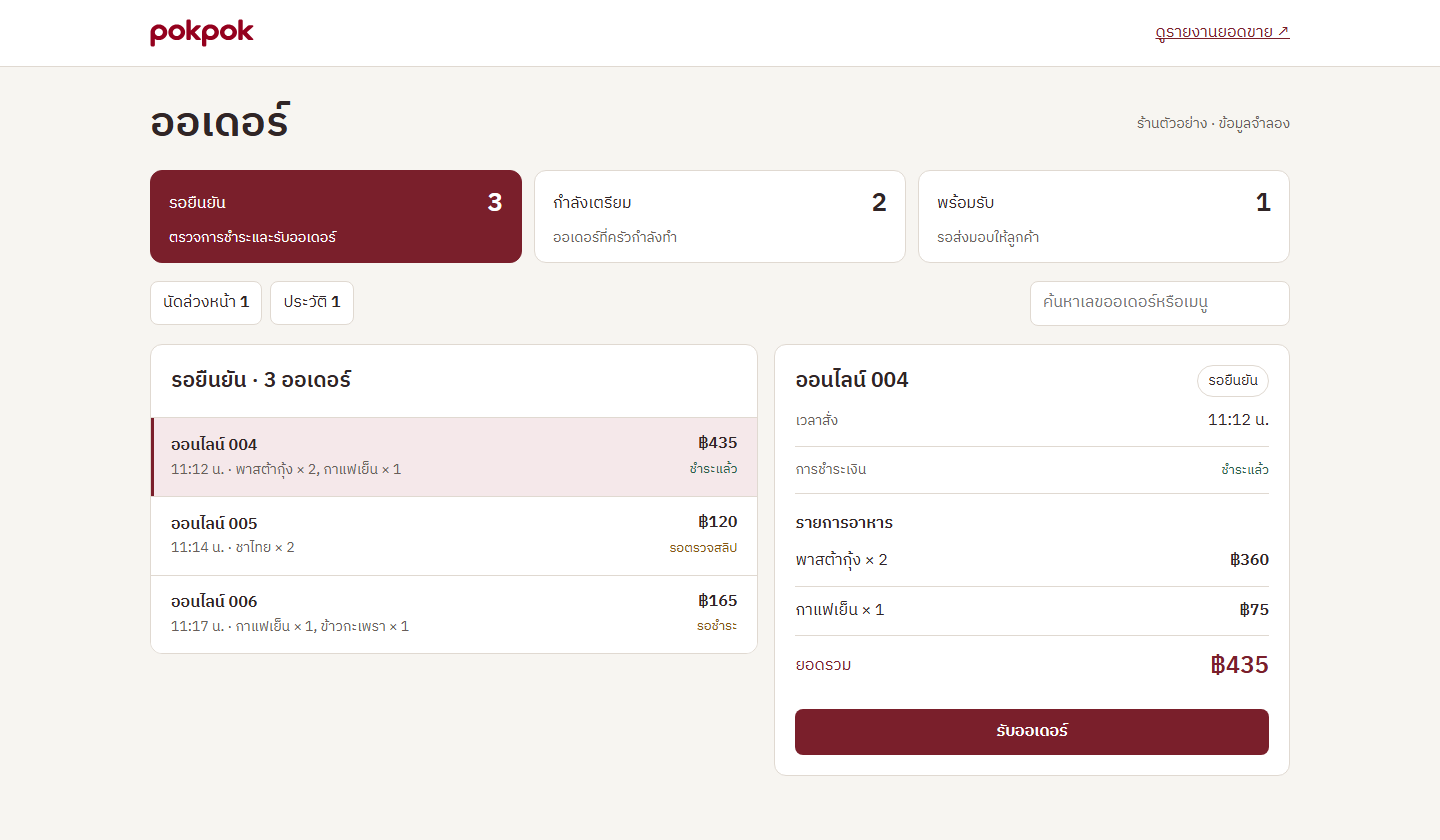
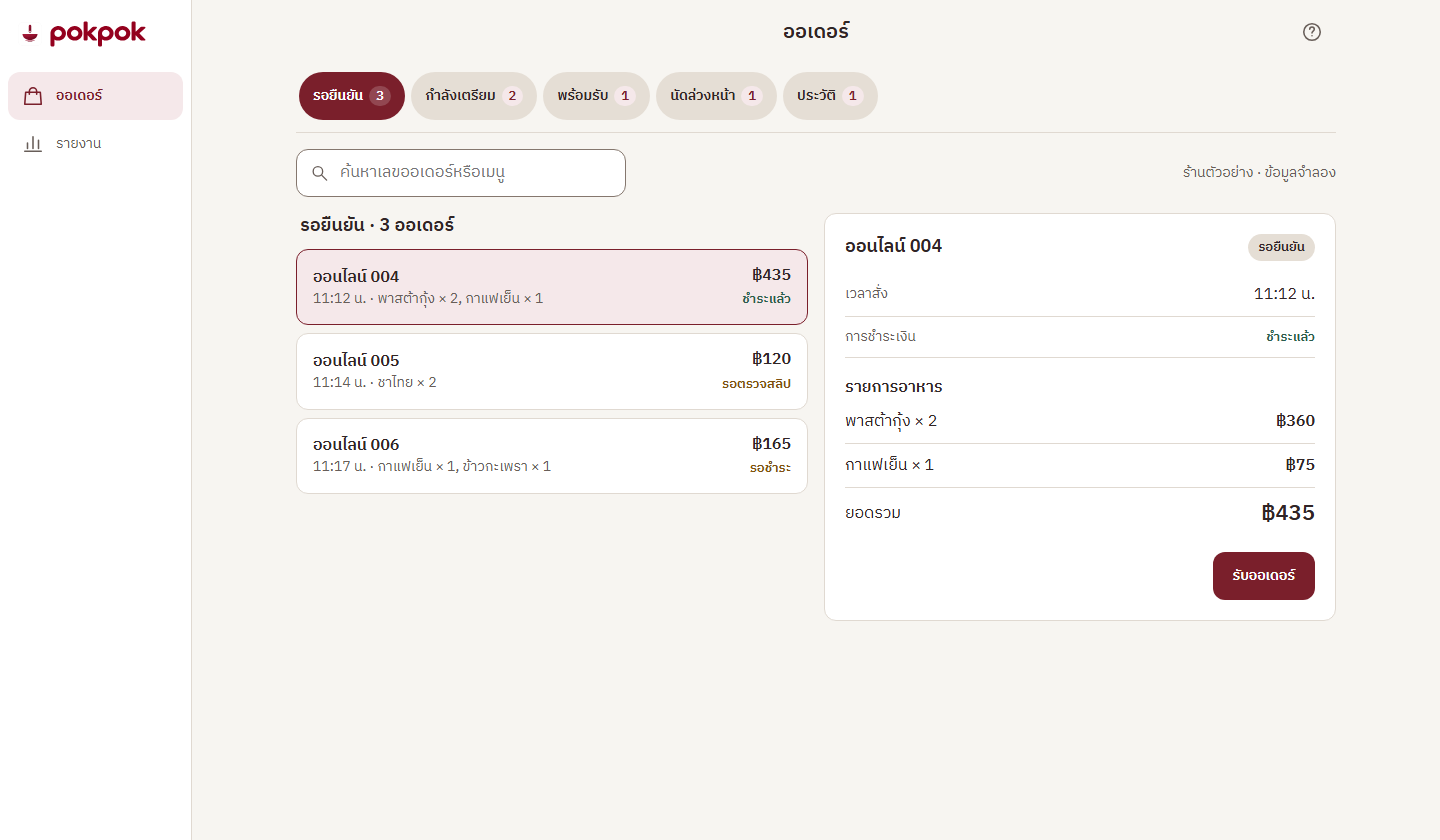
Align orders preview with Pokpok app navigation and theme

diff --git a/docs/previews/pokpok-orders.html b/docs/previews/pokpok-orders.html
@@ -7,43 +7,67 @@
 <style>
 @font-face{font-family:Plex;src:url('../../assets/fonts/IBMPlexSansThai-Regular.ttf')}
 @font-face{font-family:Plex;font-weight:600;src:url('../../assets/fonts/IBMPlexSansThai-SemiBold.ttf')}
-*{box-sizing:border-box}body{margin:0;background:var(--paper);color:var(--ink);font:16px/1.55 Plex,sans-serif;font-variant-numeric:tabular-nums}
-button,input{font:inherit}button,a{touch-action:manipulation}button{cursor:pointer;color:inherit}
+:root{--primary-text:white;--chip:#e5ded5;--border:#85776e;--paid:#295d4a;--pending:#80500e;--rail:192px}
+@media(prefers-color-scheme:dark){
+  :root{color-scheme:dark;--paper:#191716;--surface:#211e1d;--ink:#f0e9e4;--muted:#ccc1ba;--line:#514841;--border:#9b8d84;--wine:#f2adb7;--primary-text:#48101a;--rose:#50232b;--chip:#3b3533;--paid:#9bd8bc;--pending:#f4ca89}
+  .wordmark{filter:brightness(0) invert(1)}
+}
+*{box-sizing:border-box}
+body{margin:0;background:var(--paper);color:var(--ink);font:16px/1.45 Plex,sans-serif;font-variant-numeric:tabular-nums}
+button,input{font:inherit;color:inherit}button{cursor:pointer}button,a{touch-action:manipulation}
 :focus-visible{outline:3px solid var(--wine);outline-offset:2px}
-header{background:var(--surface);border-bottom:1px solid var(--line)}.wrap{width:min(1140px,94%);margin:auto}
-.mast,.line,.tools,.detail-head,.total{display:flex;align-items:center;justify-content:space-between;gap:12px}
-.mast{min-height:66px}.mast img{width:104px}.mast a{color:var(--wine);padding:10px 0}
-h1,h2,h3,p{margin:0}h1{font-size:clamp(30px,4vw,42px)}h2{font-size:21px}h3{font-size:16px}
-main{padding:24px 0 44px}.line{margin-bottom:14px}small,.sub{color:var(--muted);font-size:14px}
-.queues{display:grid;grid-template-columns:repeat(3,1fr);gap:12px}.queue,.panel{border:1px solid var(--line);background:var(--surface);border-radius:var(--radius)}
-.queue{padding:13px 18px;text-align:start;display:grid;grid-template-columns:1fr auto;align-items:center;gap:3px 8px}.queue small{grid-column:1/-1}.queue strong{font-size:26px}
-.queue[aria-pressed=true],.action{background:var(--wine);color:white;border-color:var(--wine)}.queue[aria-pressed=true] small{color:white}
-.tools{flex-wrap:wrap;margin:18px 0}.views{display:flex;gap:8px;flex-wrap:wrap}.views button,.back{border:1px solid var(--line);background:white;border-radius:8px;padding:8px 12px;min-height:44px}.views button[aria-pressed=true]{background:var(--rose);border-color:var(--wine);color:var(--wine)}
-input{border:1px solid var(--line);border-radius:8px;padding:9px 12px;width:min(100%,260px);background:white;color:var(--ink)}
-.board{display:grid;grid-template-columns:minmax(0,1.18fr) minmax(0,1fr);gap:16px;align-items:start}.panel{overflow:hidden;min-width:0}.panel-head,.detail{padding:20px}.panel-head{border-bottom:1px solid var(--line)}
-.order{display:grid;width:100%;grid-template-columns:1fr auto;align-items:center;gap:5px 12px;border:0;border-bottom:1px solid var(--line);background:white;text-align:start;padding:14px 20px}.order:last-child{border-bottom:0}.order[aria-pressed=true]{background:var(--rose);box-shadow:inset 3px 0 var(--wine)}.order span:last-child{text-align:end}.order strong,.order small{display:block}
-.pay{font-size:13px}.paid{color:#295d4a}.unpaid{color:#865512}.badge{padding:4px 10px;border:1px solid var(--line);border-radius:18px;font-size:14px}
-.meta,.item,.total{padding:12px 0;border-bottom:1px solid var(--line)}.meta,.item{display:flex;align-items:baseline;justify-content:space-between;gap:12px}.items{margin-top:18px}.total{border:0;color:var(--wine)}.total strong{font-size:24px}.action{width:100%;border:0;border-radius:8px;min-height:46px;font-weight:600;margin-top:12px}
-.empty{padding:24px}.back{display:none}.sr{position:absolute;width:1px;height:1px;clip-path:inset(50%);overflow:hidden}
-@media(max-width:639px){main{padding-top:16px}.mast{min-height:54px}.queues{gap:5px}.queue{display:flex;flex-direction:column;align-items:start;gap:0;padding:9px;font-size:14px}.queue strong{font-size:23px}.queue small{display:none}.tools{gap:10px}.tools input{width:100%}.board{display:block}.detail{display:none}.order{padding:12px}.drill .detail{display:block}.drill .overview{display:none}.drill .back{display:inline-block;margin-bottom:12px}}
+h1,h2,h3,p{margin:0}h1{font-size:20px}h2{font-size:18px}h3{font-size:16px}
+small,.sub{color:var(--muted);font-size:14px}
+nav{position:fixed;inset:0 auto 0 0;width:var(--rail);background:var(--surface);border-right:1px solid var(--line);padding:8px;z-index:2}
+.brand{height:52px;display:flex;align-items:center;gap:6px;padding:0 8px;margin-bottom:12px}.mark{width:28px}.wordmark{width:96px}
+.dest{min-height:48px;display:flex;align-items:center;gap:12px;padding:8px 14px;border-radius:12px;text-decoration:none;color:var(--muted);font-size:14px}
+.dest[aria-current]{color:var(--wine);background:var(--rose);font-weight:600}
+.icon{width:22px;height:22px;fill:none;stroke:currentColor;stroke-linecap:round;stroke-linejoin:round;stroke-width:1.7;flex:none}
+main{margin-left:var(--rail);padding:0 20px 32px}
+.appbar,.workspace{max-width:1040px;margin:auto}.appbar{height:64px;display:grid;align-items:center;grid-template-columns:48px 1fr 48px;text-align:center}.appbar h1{grid-column:2}
+.help,.back{border:0;background:transparent;min-width:48px;height:48px;color:var(--muted);display:grid;place-items:center}.back{display:none}
+.queues{display:flex;gap:6px;overflow-x:auto;scrollbar-width:none;padding:8px 3px 12px;border-bottom:1px solid var(--line)}
+.queue{flex:none;min-height:48px;padding:8px 14px;border:0;border-radius:40px;background:var(--chip);display:flex;align-items:center;gap:6px;font-size:14px;font-weight:600}
+.count{background:var(--rose);color:var(--wine);border-radius:20px;padding:1px 7px;font-size:13px}
+.queue[aria-pressed=true],.action{background:var(--wine);color:var(--primary-text)}
+.queue[aria-pressed=true] .count{background:color-mix(in srgb,currentColor 18%,transparent);color:inherit}
+.tools,.panel-head,.detail-head,.meta,.item,.total{display:flex;justify-content:space-between;align-items:center;gap:12px}
+.tools{margin:16px 0}.searchbox{position:relative;display:flex;align-items:center;width:min(100%,330px)}.searchbox .icon{position:absolute;left:14px;width:19px;color:var(--muted)}
+input{width:100%;min-height:48px;background:var(--surface);border:1px solid var(--border);border-radius:var(--radius);padding:9px 12px 9px 43px}
+.board{display:grid;grid-template-columns:minmax(0,1fr) minmax(0,1fr);align-items:start;gap:16px}
+.panel-head{padding:0 4px 10px}.order,.detail,dialog{background:var(--surface);border:1px solid var(--line);border-radius:var(--radius);color:var(--ink)}
+.order{width:100%;display:grid;grid-template-columns:minmax(0,1fr) auto;align-items:center;gap:12px;text-align:start;padding:14px 16px;margin-bottom:8px}
+.order[aria-pressed=true]{border-color:var(--wine);background:var(--rose)}.order strong,.order small{display:block}.order span:last-child{text-align:end}
+.pay,.badge{display:inline-block;font-size:13px;font-weight:600}.paid{color:var(--paid)}.unpaid{color:var(--pending)}.badge{padding:4px 10px;background:var(--chip);border-radius:20px}
+.detail,dialog{padding:20px}.detail-head{padding-bottom:12px}.meta,.item,.total{padding:10px 0;border-bottom:1px solid var(--line)}.items{margin-top:18px}.total{border:0}.total strong{font-size:22px}
+.action{border:0;border-radius:var(--radius);min-height:48px;font-weight:600;font-size:14px;padding:10px 20px;margin-top:12px}.actions{text-align:end}
+.empty{padding:16px}.sr{position:absolute;width:1px;height:1px;clip-path:inset(50%);overflow:hidden}
+dialog{width:min(370px,90vw)}dialog p{margin-top:10px}dialog::backdrop{background:#0007}
+@media(min-width:600px) and (max-width:999px){:root{--rail:72px}.brand{justify-content:center}.wordmark,.dest span{display:none}.dest{justify-content:center}}
+@media(max-width:759px){.board{display:block}.detail{display:none}.drill .detail{display:block}.drill .overview{display:none}.drill .back{display:grid;grid-column:1;grid-row:1}.drill .appbar h1{grid-row:1}.tools{flex-wrap:wrap}.tools small{font-size:13px}}
+@media(max-width:599px){main{margin:0;padding:0 12px 88px}.appbar{height:56px}nav{inset:auto 0 0;width:100%;border:0;border-top:1px solid var(--line);display:flex;justify-content:space-evenly;padding:4px 8px calc(4px + env(safe-area-inset-bottom))}.brand{display:none}.dest{flex-direction:column;gap:2px;min-width:88px;font-size:12px}.searchbox{width:100%}.tools{gap:6px}.order{padding:12px}.drill nav{display:none}}
 </style>
-<header><div class="wrap mast"><img src="../../public/brand/pokpok-wordmark.svg" alt="Pokpok"><a href="pokpok-sales-report.html">ดูรายงานยอดขาย ↗</a></div></header>
-<main class="wrap">
-  <div class="line overview"><h1>ออเดอร์</h1><small>ร้านตัวอย่าง · ข้อมูลจำลอง</small></div>
-  <div class="queues overview" id="queues" aria-label="คิวออเดอร์"></div>
-  <div class="tools overview"><div id="views" class="views"></div><input id="search" type="search" aria-label="ค้นหาเลขออเดอร์หรือเมนู" placeholder="ค้นหาเลขออเดอร์หรือเมนู"></div>
-  <button id="back" class="back">← กลับไปที่คิว</button>
-  <div class="board">
-    <section class="panel overview" aria-labelledby="list-title"><div class="panel-head"><h2 id="list-title"></h2></div><div id="list"></div></section>
-    <section class="panel detail" id="detail" aria-label="รายละเอียดออเดอร์" tabindex="-1"></section>
+<nav aria-label="เมนูตัวอย่าง">
+  <div class="brand"><img class="mark" src="../../public/brand/pokpok-icon.svg" alt=""><img class="wordmark" src="../../public/brand/pokpok-wordmark.svg" alt="Pokpok"></div>
+  <a class="dest" aria-current="page" aria-label="ออเดอร์" href="pokpok-orders.html"><svg class="icon" aria-hidden="true" viewBox="0 0 24 24"><path d="M4 8h16l1 13H3L4 8Zm4 2V7a4 4 0 0 1 8 0v3"/></svg><span>ออเดอร์</span></a>
+  <a class="dest" aria-label="รายงาน" href="pokpok-sales-report.html"><svg class="icon" aria-hidden="true" viewBox="0 0 24 24"><path d="M3 20h18M6 17v-6m6 6V4m6 13V8"/></svg><span>รายงาน</span></a>
+</nav>
+<main>
+  <header class="appbar"><button id="back" class="back" aria-label="กลับไปที่คิว">←</button><h1 id="heading">ออเดอร์</h1><button class="help" aria-label="ข้อมูลหน้าจอออเดอร์" id="help"><svg class="icon" aria-hidden="true" viewBox="0 0 24 24"><circle cx="12" cy="12" r="9"/><path d="M9.5 9a2.5 2.5 0 0 1 5 0c0 2-2.5 2-2.5 4m0 3h.01"/></svg></button></header>
+  <div class="workspace">
+    <div class="queues overview" id="queues" role="group" aria-label="คิวออเดอร์"></div>
+    <div class="tools overview"><label class="searchbox"><svg class="icon" aria-hidden="true" viewBox="0 0 24 24"><circle cx="10" cy="10" r="6"/><path d="m15 15 6 6"/></svg><input id="search" type="search" aria-label="ค้นหาเลขออเดอร์หรือเมนู" placeholder="ค้นหาเลขออเดอร์หรือเมนู"></label><small>ร้านตัวอย่าง · ข้อมูลจำลอง</small></div>
+    <div class="board">
+      <section class="overview" aria-labelledby="list-title"><div class="panel-head"><h2 id="list-title"></h2></div><div id="list"></div></section>
+      <section class="detail" id="detail" aria-label="รายละเอียดออเดอร์" tabindex="-1"></section>
+    </div>
   </div>
   <p class="sr" id="announcement" role="status"></p>
 </main>
+<dialog id="info" aria-labelledby="info-title"><h2 id="info-title">ออเดอร์</h2><p>เลือกคิวเพื่อดูรายการที่ลูกค้าสั่งผ่านลิงก์หรือ QR ของร้าน ตรวจการชำระเงินก่อนรับออเดอร์ แล้วอัปเดตสถานะเมื่อพร้อมส่งมอบ</p><form method="dialog" class="actions"><button class="action">เข้าใจแล้ว</button></form></dialog>
 <script>
 const stages = [
-  {name:'รอยืนยัน', hint:'ตรวจการชำระและรับออเดอร์'},
-  {name:'กำลังเตรียม', hint:'ออเดอร์ที่ครัวกำลังทำ'},
-  {name:'พร้อมรับ', hint:'รอส่งมอบให้ลูกค้า'},
+  {name:'รอยืนยัน'}, {name:'กำลังเตรียม'}, {name:'พร้อมรับ'},
   {name:'นัดล่วงหน้า'}, {name:'ประวัติ'}
 ];
 const dishes = {pasta:['พาสต้ากุ้ง',180], tea:['ชาไทย',60], rice:['ข้าวกะเพรา',90], coffee:['กาแฟเย็น',75]};
@@ -62,16 +86,15 @@ const money=v=>'฿'+v.toLocaleString('th-TH');
 const total=o=>o.items.reduce((sum,[key,qty])=>sum+dishes[key][1]*qty,0);
 const el=id=>document.getElementById(id);
 let stage=0, selected='004';
-function stageButtons(start,end,primary){
-  return stages.slice(start,end).map(({name,hint},offset)=>{
-    const i=start+offset,count=orders.filter(o=>o.stage===i).length;
-    return `<button data-stage="${i}" aria-pressed="${stage===i}" class="${primary?'queue':''}">${name} <strong>${count}</strong>${hint?`<small>${hint}</small>`:''}</button>`;
+function stageButtons(){
+  return stages.map(({name},i)=>{
+    const count=orders.filter(o=>o.stage===i).length;
+    return `<button data-stage="${i}" aria-pressed="${stage===i}" class="queue">${name}${count?`<span class="count">${count}</span>`:''}</button>`;
   }).join('');
 }
 function pay(o){return `<span class="pay ${o.payment==='ชำระแล้ว'?'paid':'unpaid'}">${o.payment}</span>`}
 function draw(){
-  el('queues').innerHTML=stageButtons(0,3,true);
-  el('views').innerHTML=stageButtons(3,5,false);
+  el('queues').innerHTML=stageButtons();
   const q=el('search').value.trim().toLowerCase();
   const visible=orders.filter(o=>o.stage===stage&&[o.id,...o.items.map(([key])=>dishes[key][0])].some(s=>s.toLowerCase().includes(q)));
   const order=visible.find(o=>o.id===selected)??visible[0];
@@ -86,10 +109,17 @@ function draw(){
     <div class="meta"><small>การชำระเงิน</small>${pay(order)}</div>
     <h3 class="items">รายการอาหาร</h3>${order.items.map(([key,qty])=>`<div class="item"><span>${dishes[key][0]} × ${qty}</span><strong>${money(dishes[key][1]*qty)}</strong></div>`).join('')}
     <div class="total"><span>ยอดรวม</span><strong>${money(total(order))}</strong></div>
-    ${action?`<button class="action" id="advance">${action}</button>`:''}`;
+    ${action?`<div class="actions"><button class="action" id="advance">${action}</button></div>`:''}`;
 }
+const compact=matchMedia('(max-width:759px)');
+function drill(open){
+  document.body.classList.toggle('drill',open);
+  el('heading').textContent=open?'รายละเอียดออเดอร์':'ออเดอร์';
+}
+compact.addEventListener('change',()=>drill(false));
+el('help').addEventListener('click',()=>el('info').showModal());
 function changeStage(i){
-  stage=i;el('search').value='';document.body.classList.remove('drill');draw();
+  stage=i;el('search').value='';drill(false);draw();
   document.querySelector('[data-stage="'+i+'"]').focus();
 }
 document.addEventListener('click',event=>{
@@ -97,10 +127,10 @@ document.addEventListener('click',event=>{
   if(btn.hasAttribute('data-stage'))return changeStage(Number(btn.dataset.stage));
   if(btn.hasAttribute('data-order')){
     selected=btn.dataset.order;draw();
-    if(matchMedia('(max-width:639px)').matches){document.body.classList.add('drill');el('detail').focus()}
+    if(compact.matches){drill(true);el('detail').focus()}
     else document.querySelector('[data-order="'+selected+'"]').focus();
   }
-  if(btn.id==='back'){document.body.classList.remove('drill');document.querySelector('[data-order="'+selected+'"]')?.focus()}
+  if(btn.id==='back'){drill(false);document.querySelector('[data-order="'+selected+'"]')?.focus()}
   if(btn.id==='advance'){
     const order=orders.find(o=>o.id===selected);
     order.stage=[1,2,4][order.stage];

diff --git a/docs/HANDOFF.md b/docs/HANDOFF.md
@@ -16,6 +16,7 @@ Rules:
 ## Current state (updated 2026-11-18)
 
 The sales report and orders click-throughs in `docs/previews/` link to each other and include PNG previews. Both use sample data for owner review.
+The orders prototype now follows the Flutter order screen's app bar, queue chips, navigation placement and Material theme.
 
 The owner approved the lower-left expanding tab in `docs/previews/pokpok-tab-motion.html`. It is implemented locally in the Flutter phone navigation. Production remains at 1.2.79 (96).
 
@@ -432,6 +433,10 @@ or triggered; its Codemagic workflow does not run automatically on push.
 ---
 
 ## Log
+
+### 2026-11-18 — Align orders preview with Pokpok app UI
+
+Replaced the marketing header and large queue tiles in the local orders prototype with an app bar, compact queue filters and adaptive navigation. The paid-order workflow, payment states and sales report link remain available. Checked list, detail, help dialog and order acceptance in Chrome at 390, 768 and 1440 CSS pixels. Updated the desktop image. No production release or physical-device test.
 
 ### 2026-11-18 — Orders preview for owner review
 
